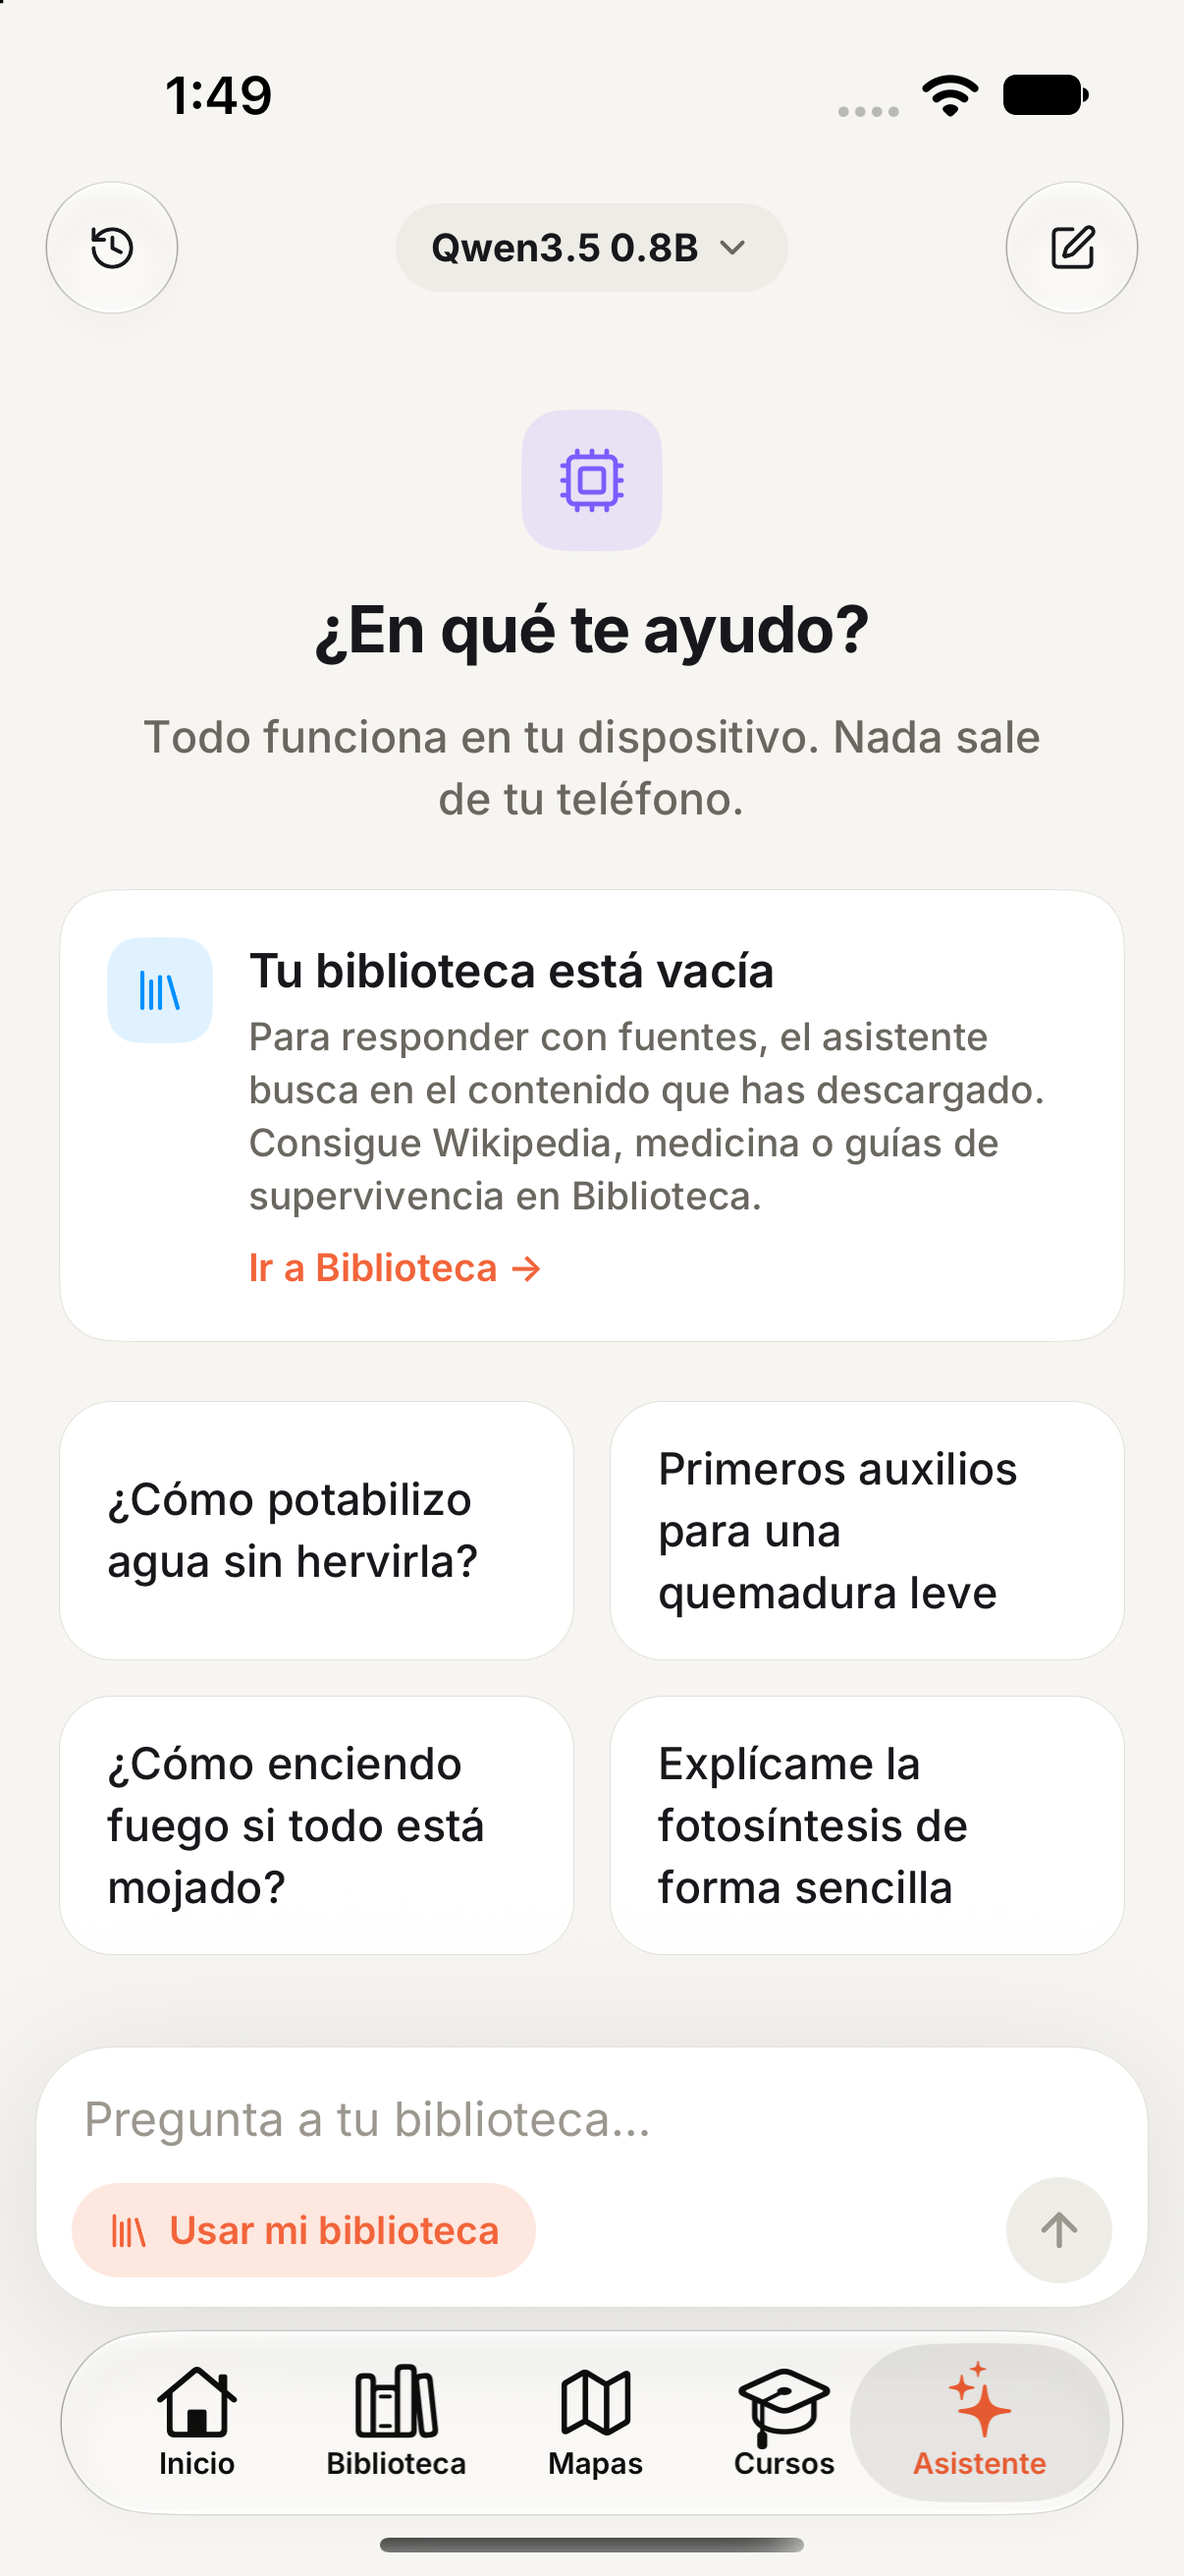
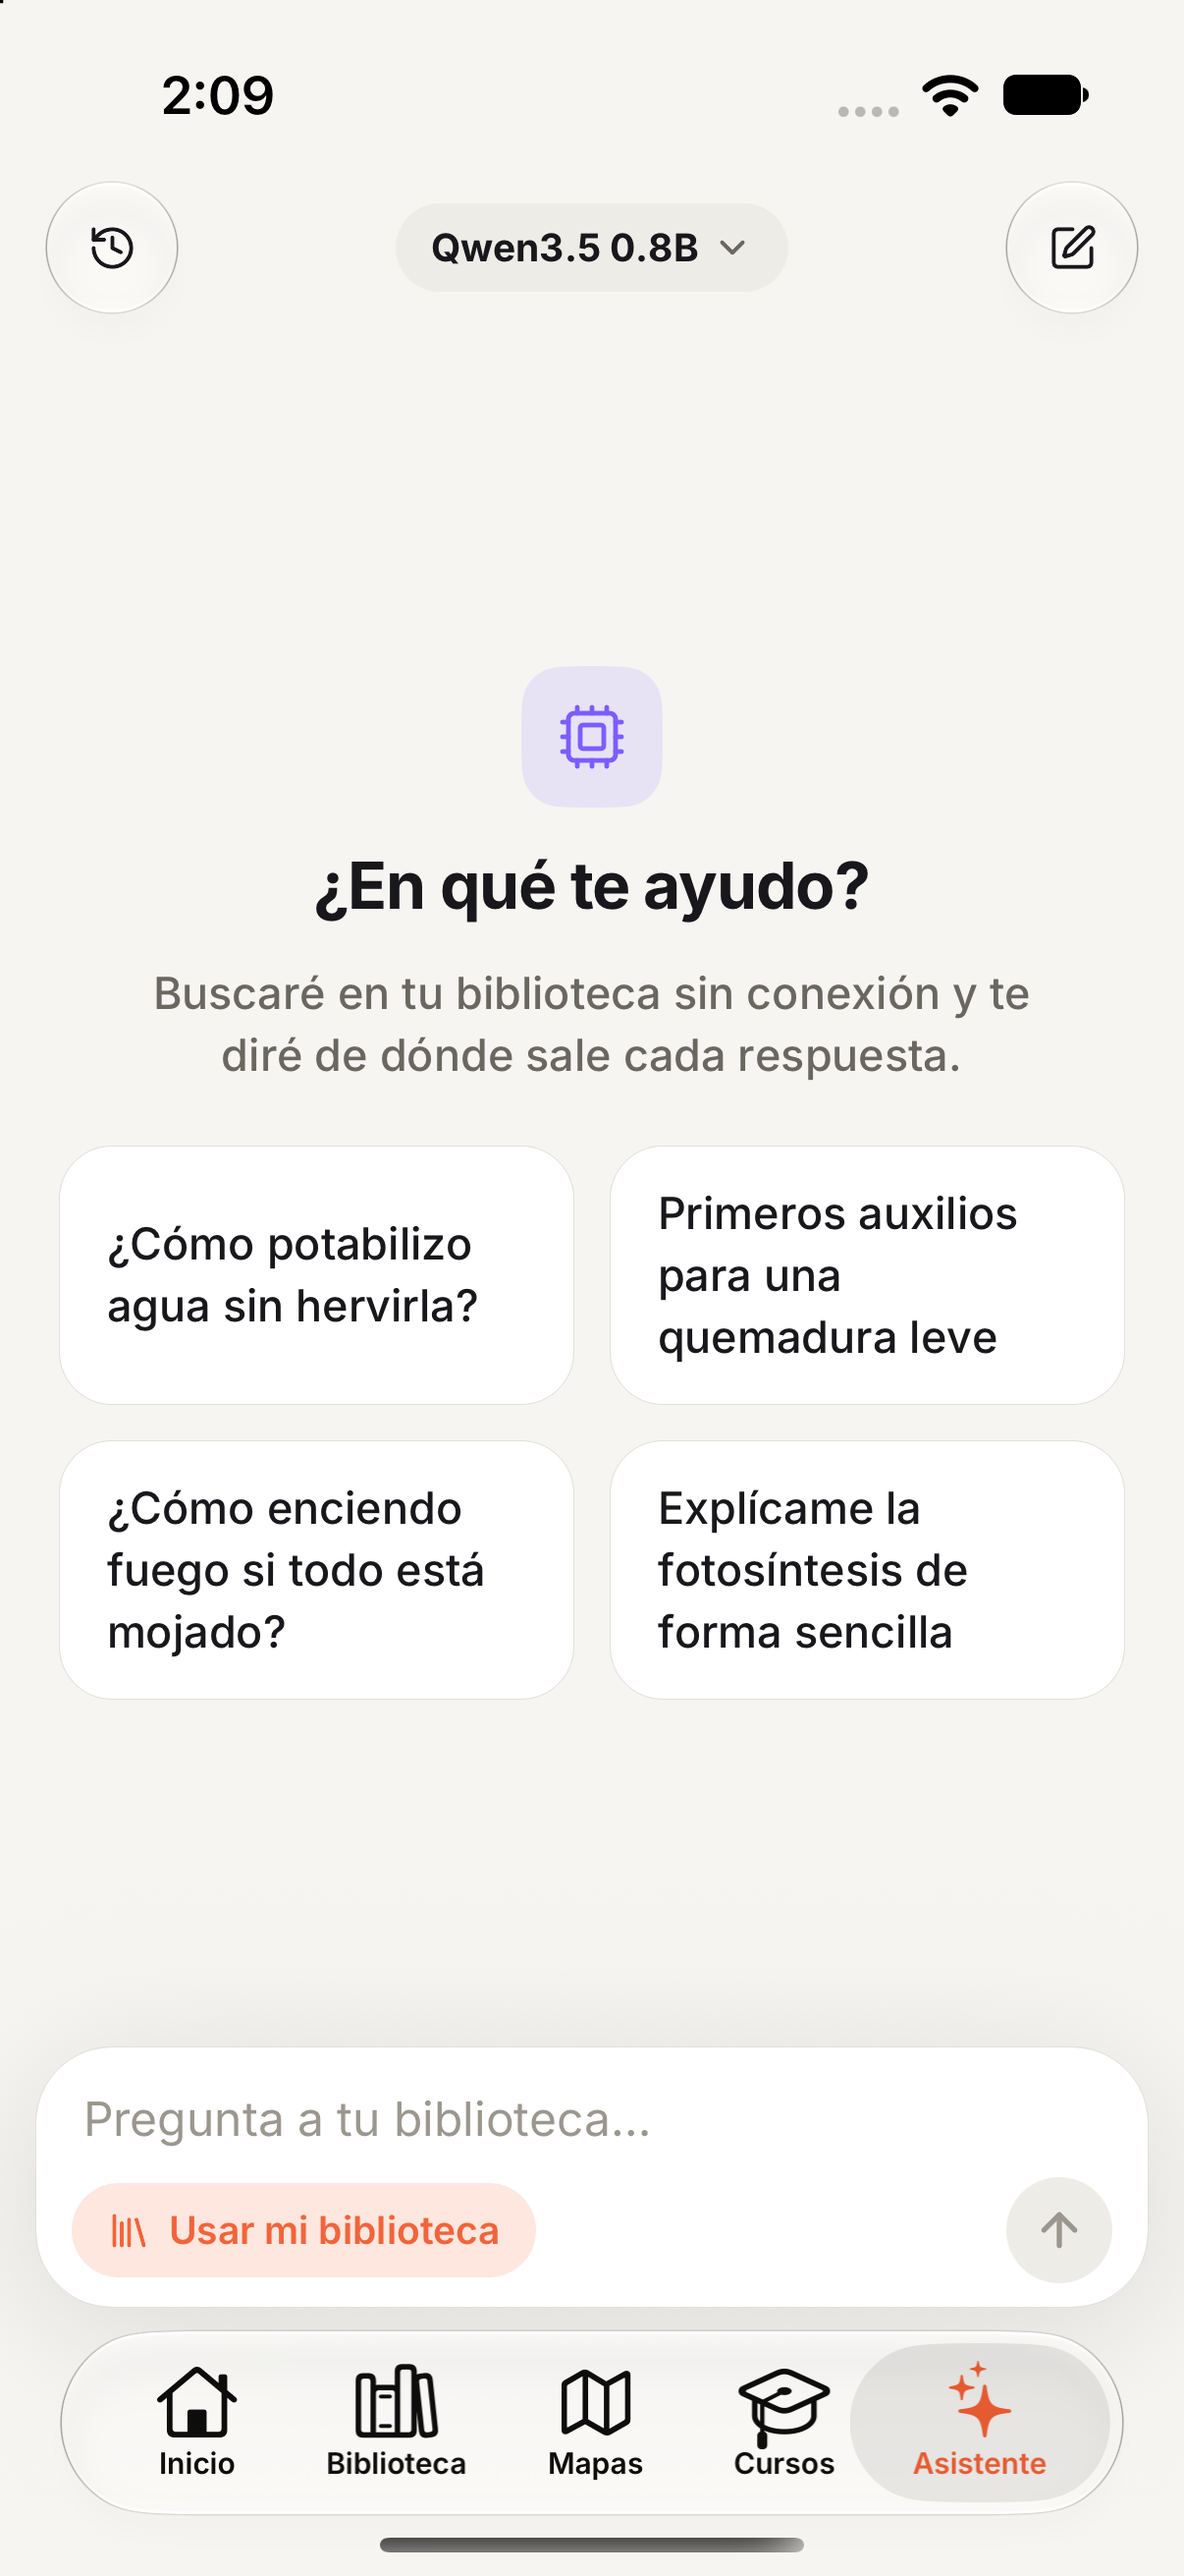
RAG: title and search-rank boosts, question-first prompt; verified with real ZIM
Ranking now favours the article the question names and the search
engine's own order; the user turn repeats the question after the sources
so small models stay on task. Verified end to end on the simulator with
wikipedia_es_top_mini: cited answer, source chips open the reader.

diff --git a/src/features/assistant/rag-core.ts b/src/features/assistant/rag-core.ts
@@ -146,6 +146,8 @@ export type Chunk = {
   text: string;
   /** Position of the chunk within its article (0 = lead). */
   index: number;
+  /** Rank of the article in the search engine's results (0 = best), if known. */
+  hitRank?: number;
 };
 
 /** Split into sentences, keeping the terminator. */
@@ -263,9 +265,27 @@ export function rankChunks(question: string, chunks: Chunk[], limit = 12): Score
   const index = new BM25<Chunk>();
   for (const c of chunks) index.add(c, [...tokenize(c.title), ...tokenize(c.text)]);
   const q = tokenize(question);
+  const qSet = new Set(q);
+  const titleMatch = new Map<string, number>();
+  const titleBoost = (title: string) => {
+    let v = titleMatch.get(title);
+    if (v === undefined) {
+      const t = tokenize(title);
+      // Share of the title's terms the question mentions ("Fotosíntesis" for "explain photosynthesis").
+      v = t.length ? t.filter((x) => qSet.has(x)).length / t.length : 0;
+      titleMatch.set(title, v);
+    }
+    return v;
+  };
   return index
     .search(q)
-    .map((s) => ({ item: s.item, score: s.score * (1 + 0.15 / (1 + s.item.index)) }))
+    .map((s) => {
+      const c = s.item;
+      const lead = 1 + 0.15 / (1 + c.index);
+      const title = 1 + 0.8 * titleBoost(c.title);
+      const engine = c.hitRank === undefined ? 1 : 1 + 0.3 / (1 + c.hitRank);
+      return { item: c, score: s.score * lead * title * engine };
+    })
     .sort((a, b) => b.score - a.score)
     .slice(0, limit);
 }
@@ -403,8 +423,12 @@ export function formatSources(sources: PackedSource[]): string {
  */
 export function buildRagUserMessage(question: string, sources: PackedSource[], lang: Lang): string {
   if (!sources.length) return `${NO_HITS[lang]}\n\n${lang === 'es' ? 'Pregunta' : 'Question'}: ${question}`;
-  const label = lang === 'es' ? { src: 'Fuentes', q: 'Pregunta', a: 'Responde citando las fuentes con [n].' } : { src: 'Sources', q: 'Question', a: 'Answer citing the sources with [n].' };
-  return `${label.src}:\n\n${formatSources(sources)}\n\n${label.q}: ${question}\n\n${label.a}`;
+  const label =
+    lang === 'es'
+      ? { src: 'Fuentes de la biblioteca', q: 'Pregunta', a: 'Responde ahora a la pregunta con tus palabras, usando estas fuentes y citándolas con [n].' }
+      : { src: 'Library sources', q: 'Question', a: 'Now answer the question in your own words using these sources, citing them with [n].' };
+  // Question first and last: small models lose track of it after long context.
+  return `${label.q}: ${question}\n\n${label.src}:\n\n${formatSources(sources)}\n\n${label.q}: ${question}\n${label.a}`;
 }
 
 /** Citation numbers actually used in an answer, e.g. "… [1][3]" → [1, 3]. */

diff --git a/src/features/assistant/rag-core.test.ts b/src/features/assistant/rag-core.test.ts
@@ -143,6 +143,15 @@ describe('BM25', () => {
     assert.equal(ranked[0].item.sourceKey, 'a');
     assert.equal(ranked[0].item.index, 0);
   });
+
+  test('rankChunks prefers the article whose title the question names', () => {
+    const chunks: Chunk[] = [
+      { sourceKey: 'g', title: 'Gliceraldehído', text: 'Producto intermedio de la fotosíntesis y la glucólisis, presente en la fotosíntesis.', index: 0, hitRank: 0 },
+      { sourceKey: 'f', title: 'Fotosíntesis', text: 'Proceso por el que las plantas convierten la luz en energía química.', index: 0, hitRank: 2 },
+    ];
+    const ranked = rankChunks('Explícame la fotosíntesis de forma sencilla', chunks);
+    assert.equal(ranked[0].item.sourceKey, 'f');
+  });
 });
 
 describe('context packing', () => {
@@ -189,7 +198,8 @@ describe('context packing', () => {
   test('buildRagUserMessage numbers sources and handles no hits', () => {
     const packed = packContext([scored(chunk('c', 0, 40), 1)], (k) => refs[k], 1000);
     const msg = buildRagUserMessage('¿Cómo curo una quemadura?', packed.sources, 'es');
-    assert.match(msg, /^Fuentes:/);
+    assert.match(msg, /^Pregunta: ¿Cómo curo una quemadura\?/);
+    assert.match(msg, /Fuentes de la biblioteca:/);
     assert.match(msg, /\[1\] Quemadura/);
     assert.match(msg, /Pregunta: ¿Cómo curo una quemadura\?/);
     const none = buildRagUserMessage('What is X?', [], 'en');

diff --git a/src/features/assistant/rag.ts b/src/features/assistant/rag.ts
@@ -67,13 +67,13 @@ export async function retrieve(question: string, lang: Lang, budgetChars: number
   const articles = await Promise.all(
     hits.map(async (h) => ({ hit: h, article: await getArticleText(h.itemId, h.path, ARTICLE_CHARS).catch(() => null) })),
   );
-  for (const { hit, article } of articles) {
+  for (const [hitRank, { hit, article }] of articles.entries()) {
     const text = article?.text || hit.snippet;
     if (!text) continue;
     const title = article?.title || hit.title;
     const key = keyOf(hit.itemId, hit.path);
     refs.set(key, { itemId: hit.itemId, path: hit.path, title });
-    chunkText(text, CHUNK_SIZE, CHUNK_OVERLAP).forEach((c, index) => chunks.push({ sourceKey: key, title, text: c, index }));
+    chunkText(text, CHUNK_SIZE, CHUNK_OVERLAP).forEach((c, index) => chunks.push({ sourceKey: key, title, text: c, index, hitRank }));
   }
 
   let ranked = rankChunks(question, chunks, 16);

diff --git a/docs/PROGRESS.md b/docs/PROGRESS.md
@@ -22,7 +22,7 @@ every work block so work can resume after context compaction.
 | 2. ZIM library (native module, reader, search) | done (iOS verified, Android compiles) |
 | 3. Maps (extractor, MapLibre, regions, markers) | done (iOS verified, Android compiles) — merged |
 | 4. Courses | UI + progress done (needs ZIM module for syllabus) |
-| 5. Local AI (system + GGUF, RAG) | done — verified on iOS sim (llama.cpp CPU + Apple FM); RAG waits for ZIM module |
+| 5. Local AI (system + GGUF, RAG) | done — verified on iOS sim (llama.cpp CPU, Apple FM, RAG with citations) |
 | 6. Polish, icon, builds on simulator/emulator | pending |
 
 ## Log
@@ -98,9 +98,15 @@ every work block so work can resume after context compaction.
   numbered sources → `[n]` citations), chats in `chat_sessions`/`chat_messages`.
 - UI: chat with streaming Markdown, source chips → reader, stop, "use my library"
   toggle, starters; conversations sheet; model screen with downloads.
-- Verified: iOS Release sim build, Qwen3.5 0.8B downloaded in-app and streamed an
-  answer on the CPU; Apple Intelligence streamed on the simulator; Android
-  `assembleDebug` OK. RAG returns "not in your library" until `zim.ts` is real.
+- Verified on the iOS 27 simulator (Release): Qwen3.5 0.8B downloaded in-app and
+  streamed on the CPU (llama.cpp); Apple Intelligence available and streaming; RAG
+  over `wikipedia_es_top_mini` with Apple FM answers with inline `[n]` citations and
+  source chips that open the reader. Android `assembleDebug` OK (runtime untested).
+  Screenshots: `docs/screenshots/assistant-*.png`.
+- Limits / TODO: Qwen3.5 0.8B rarely emits `[n]` (all retrieved sources are shown
+  then) and is unreliable for health answers — recommend 2B+; keyboard avoidance only
+  checked with the hardware keyboard; Gemini Nano path untested on a real AICore
+  device; `maxOutputTokens` limits of Gemini Nano unverified; no copy/regenerate yet.
 
 ## Next steps
 
